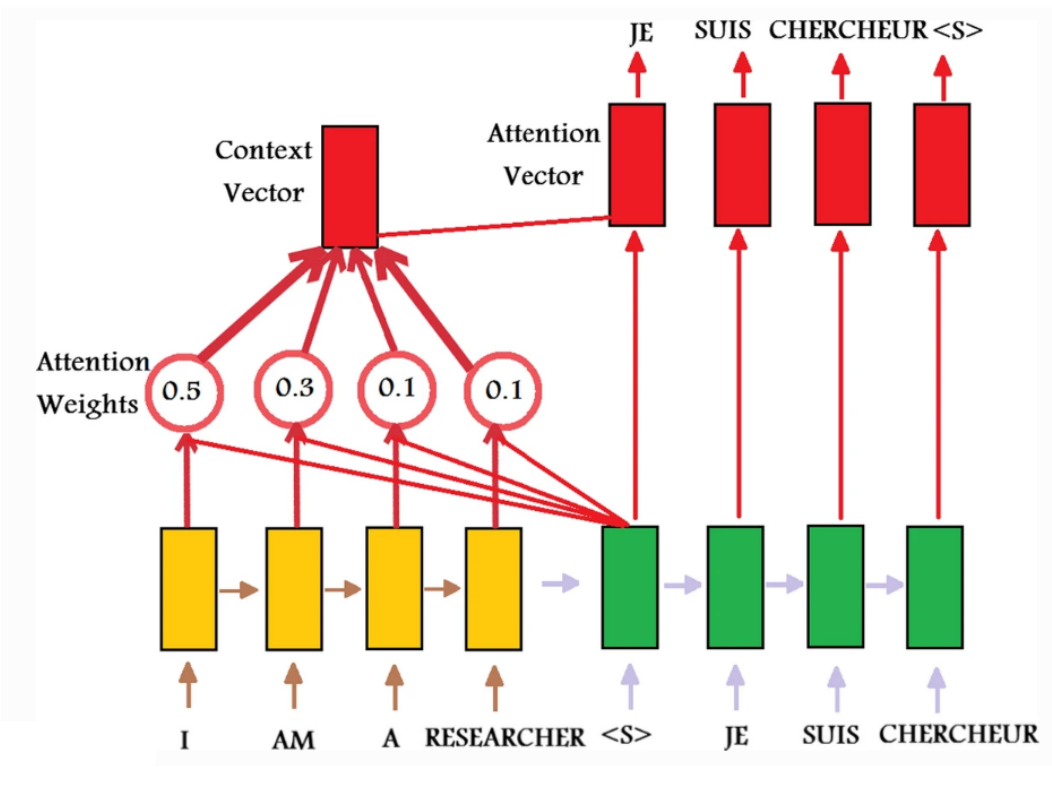
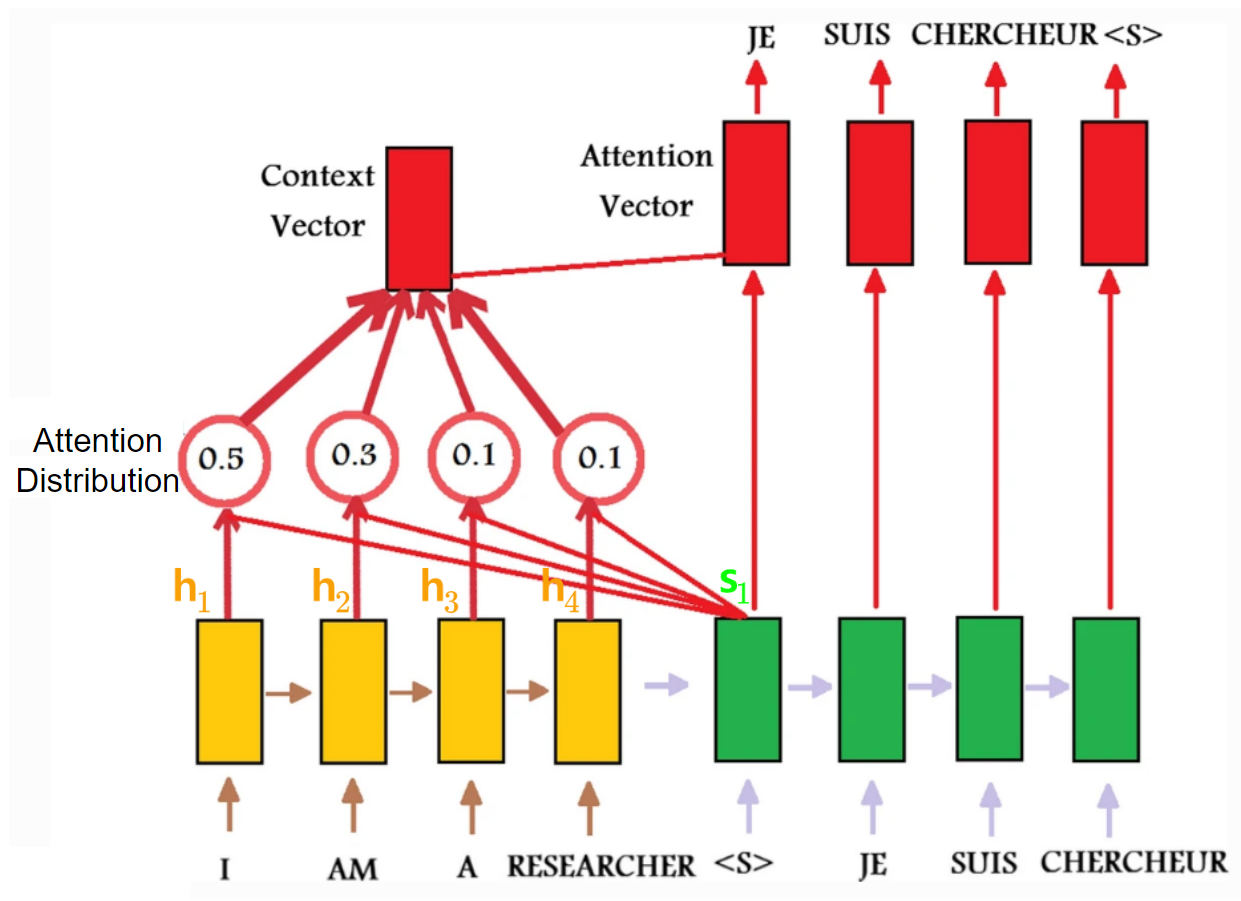
add attention scores

Changed region(s): [[0.0, 0.0, 1.0, 1.0], [0.1521, 0.9125, 0.1825, 0.9734]]

diff --git a/docs/ML/ch16_RNN/RNN_attention_score.md b/docs/ML/ch16_RNN/RNN_attention_score.md
@@ -2,26 +2,29 @@
 
 Attention mechanism에서 `query`, `key`, `value` 에서 `query`와 `key`의 ***similarity*** 를 의미.
 
-> 특정 `query`에 대해 모든 `key`들의 Attention score들로 구성된 vector $\textbf{e}$에 `softmax` 함수를 취해서 attention distribution을 구함. 이 attention distribution은 일종의 확률분포이며 `value` vector와 함께 weighted sum, ***attention*** 을 구하는데 사용된다.  
+> 특정 `query`에 대해 모든 `key`들의 Attention score들로 구성된 vector $\textbf{e}$에 `softmax` 함수를 취해서 attention distribution (아래그림 참고)을 구함.  
+> 이 attention distribution은 일종의 확률분포(다 더하면 1.0)이며 `value` vector와 함께 weighted sum, ***attention*** 을 구하는데 사용된다.  
 >  
 > ![](../img/ch16_RNN/encoder_decoder_w_attention.png)
 
 
 ## Attention score의 등장.
 
-`seq2seq` 에서 2014년 Graves, Wayne, Danihelka에 의해 attention (=content-based attention)이 도입되었음.
+`seq2seq` 구조에 대해, 2014년 Graves, Wayne, Danihelka 가 attention (=content-based attention)을 도입함.
 
-Content-based Attention을 위해서 
+이 Content-based Attention을 위해서 
 
 Decoder의 time-step $j$에서  
 
 * Decoder state $\textbf{s}_{j-1}$ 과
 * Encoder state $\textbf{h}_i$ 의
-* similarity 를 계산함
+* similarity 가 계산된다.
 
 해당 계산은 모든 Decoder state들에 대해 이루어짐.
 
 여기서 Decoder state $\textbf{s}$와 Encoder state $\textbf{h}$ 간의 similarity를 구하는 것이 attention score 임.
+
+---
 
 `query`, `key`로 일반화하여 애기한다면, 
 
@@ -32,17 +35,19 @@ Grave et al. 의 논문에서 Decoder state와 Encoder state는 같은 dimension
 
 > Grave et al. 에서 `value`는 `key`와 동일.
 
-## 많이 사용되는 Attention score.
+---
 
-Grave et al.이 제안한 것을 포함하여 다음과 같은 여러 attention score가 있음.
+## 많이 사용되는 Attention scores.
+
+Grave et al.이 제안한 것을 포함하여 다음과 같은 여러 attention score (or attention functions)가 있음.
 
 | ref. | name | def. | etc.|
 |---|---|---|---|
-|[Grave et al., 2014](https://arxiv.org/abs/1410.5401)| content-based attention | $f(\textbf{s},\textbf{h})=\frac{\textbf{s}\cdot\textbf{h}}{\|\textbf{s}\|_2 \|\textbf{s}\|_2}$| |
-|[Bahdanau et al., 2015](https://arxiv.org/abs/1409.0473)| Bahdanau (or additive) attention | $f(\textbf{s},\textbf{h})=V^T \text{tanh}(W_s \textbf{s}+ W_h \textbf{s})| Luong et al. 에선 `concat` attention score로 칭함. |
-|[Luong et al., 2015](https://arxiv.org/abs/1508.04025)| Loung attention | $f(\textbf{s}, \textbf{h})= \textbf{h} \cdot W \textbf{s} | 논문에서 `general` attention score|
+|[Grave et al., 2014](https://arxiv.org/abs/1410.5401)| content-based attention | $f(\textbf{s},\textbf{h})=\frac{\textbf{s}\cdot\textbf{h}}{\|\textbf{s}\| \|\textbf{s}\|}$| |
+|[Bahdanau et al., 2015](https://arxiv.org/abs/1409.0473)| Bahdanau (or additive) attention | $f(\textbf{s},\textbf{h})=V^T \text{tanh}(W_s \textbf{s}+ W_h \textbf{s})$| Luong et al. 에선 `concat` attention score로 칭함. |
+|[Luong et al., 2015](https://arxiv.org/abs/1508.04025)| Loung attention | $f(\textbf{s}, \textbf{h})= \textbf{h} \cdot W \textbf{s}$ | 논문에서 `general` attention score|
 |[Luong et al., 2015](https://arxiv.org/abs/1508.04025)| dot attention | $f(\textbf{s},\textbf{h})= \textbf{h} \cdot \textbf{s}$ | 논문에서 `dot` attention score|
-|[Vaswani et al., 2017](http://papers.nips.cc/paper/7181-attention-is-all-you-need.pdf)|$f(\textbf{s},\textbf{h})= \frac{\textbf{s}\cdot \textbf{h}}{\sqrt{n}} | $n$ 은 encoder state $\textbf{h}$의 dimension임.| 
+|[Vaswani et al., 2017](http://papers.nips.cc/paper/7181-attention-is-all-you-need.pdf)|scaled dot-product attention|$f(\textbf{s},\textbf{h})= \frac{\textbf{s}\cdot \textbf{h}}{\sqrt{n}}$ | $n$ 은 encoder state $\textbf{h}$의 dimension임.| 
 
 ## 읽어보면 좋은 자료.
 
